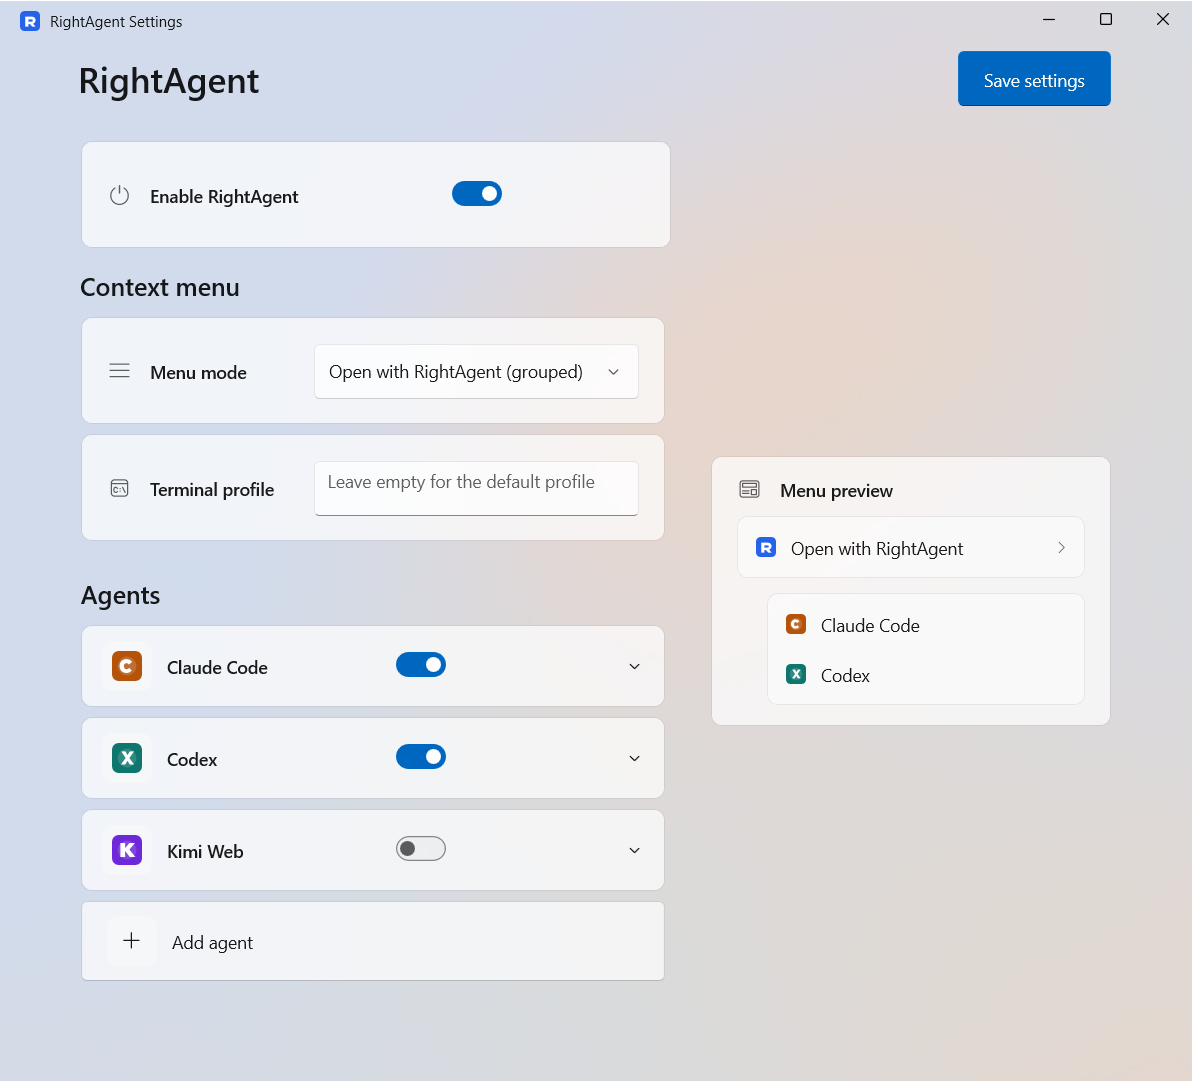
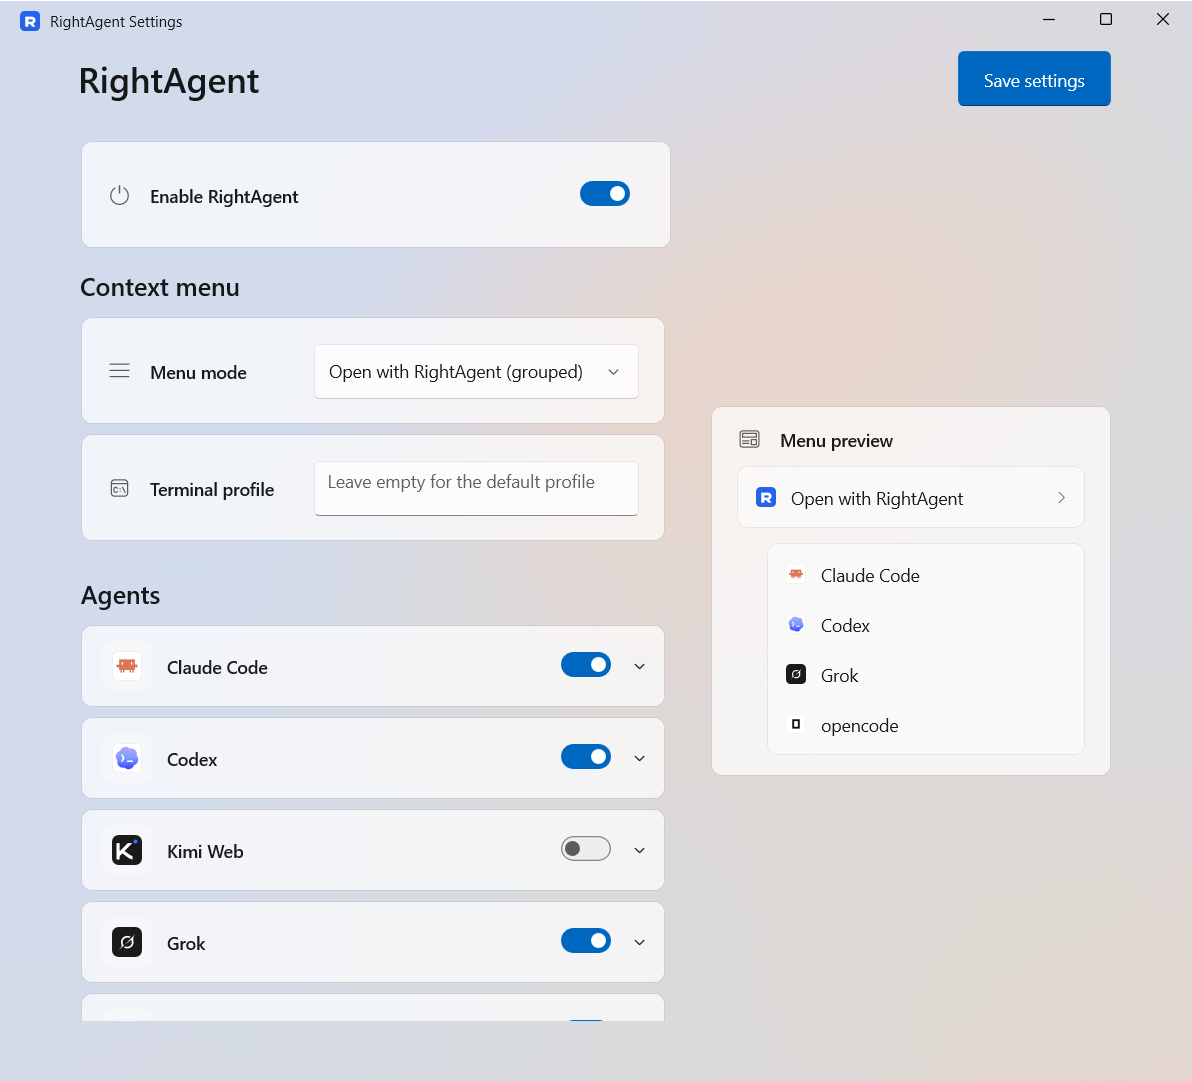
Pin agent toggles next to expander chevron, dark Kimi tile
- Stretch each agent header to the content column's exact right edge and
  tighten the template chevron margin (20,0,8,0 -> 2,0,4,0) so the toggle
  sits ~20epx from the arrow like Windows 11 Settings rows, without the
  layout clipping that cut the toggle's right edge.
- Absorb the ToggleSwitch template's trailing padding with a negative
  right margin.
- Kimi icon: white K + brand blue dot on a near-black tile (SVG + ICO).
- Refresh after-* screenshots, sync BRAND_ASSETS.md descriptions.

diff --git a/RightAgent.App/MainWindow.xaml b/RightAgent.App/MainWindow.xaml
@@ -272,10 +272,12 @@
                                             BorderBrush="{ThemeResource CardStrokeColorDefaultBrush}"
                                             BorderThickness="1"
                                             CornerRadius="8"
-                                            IsExpanded="{x:Bind IsExpanded, Mode=TwoWay}">
+                                            IsExpanded="{x:Bind IsExpanded, Mode=TwoWay}"
+                                            SizeChanged="AgentExpander_SizeChanged">
                                             <Expander.Header>
                                                 <Grid
                                                     MinHeight="64"
+                                                    HorizontalAlignment="Stretch"
                                                     ColumnSpacing="12"
                                                     VerticalAlignment="Center">
                                                     <Grid.ColumnDefinitions>
@@ -302,10 +304,14 @@
                                                         Text="{x:Bind Name, Mode=OneWay}"
                                                         TextTrimming="CharacterEllipsis"
                                                         ToolTipService.ToolTip="{x:Bind Name, Mode=OneWay}" />
+                                                    <!-- Negative right margin absorbs the ToggleSwitch template's
+                                                         built-in trailing padding, so the pill ends flush with the
+                                                         content column edge measured in AgentExpander_SizeChanged. -->
                                                     <ToggleSwitch
                                                         Grid.Column="2"
                                                         MinWidth="0"
                                                         MinHeight="44"
+                                                        Margin="0,0,-8,0"
                                                         AutomationProperties.Name="{x:Bind EnabledAutomationName, Mode=OneWay}"
                                                         IsOn="{x:Bind Enabled, Mode=TwoWay}"
                                                         OffContent=""

diff --git a/RightAgent.App/MainWindow.xaml.cs b/RightAgent.App/MainWindow.xaml.cs
@@ -79,6 +79,57 @@ public sealed partial class MainWindow : Window
         ViewModel.AddAgent();
     }
 
+    private void AgentExpander_SizeChanged(object sender, SizeChangedEventArgs e)
+    {
+        // The Expander template reserves a 20px margin before its chevron border
+        // ("ExpandCollapseChevronBorder", Margin 20,0,8,0), which leaves the toggle
+        // looking stranded. Tighten that margin directly on the template part, then
+        // stretch the header grid to the exact right edge of the content column —
+        // anything wider gets layout-clipped by the chevron slot.
+        if (sender is not Expander { Header: FrameworkElement header } expander)
+        {
+            return;
+        }
+        var border = FindDescendantByName(expander, "ExpandCollapseChevronBorder");
+        if (border is null)
+        {
+            return;
+        }
+        if (border.Margin.Left != 2 || border.Margin.Right != 4)
+        {
+            border.Margin = new Thickness(2, 0, 4, 0);
+        }
+        // The margin change does not alter the Expander's own size, so SizeChanged will
+        // not fire again — force a synchronous layout pass and measure the new geometry.
+        expander.UpdateLayout();
+        var headerLeft = header.TransformToVisual(expander).TransformPoint(new Windows.Foundation.Point(0, 0)).X;
+        var columnRight = border.TransformToVisual(expander).TransformPoint(new Windows.Foundation.Point(0, 0)).X - border.Margin.Left;
+        var width = columnRight - headerLeft;
+        if (width > 0 && System.Math.Abs(header.Width - width) > 0.5)
+        {
+            header.Width = width;
+        }
+    }
+
+    private static FrameworkElement? FindDescendantByName(Microsoft.UI.Xaml.DependencyObject root, string name)
+    {
+        var count = Microsoft.UI.Xaml.Media.VisualTreeHelper.GetChildrenCount(root);
+        for (var index = 0; index < count; ++index)
+        {
+            var child = Microsoft.UI.Xaml.Media.VisualTreeHelper.GetChild(root, index);
+            if (child is FrameworkElement element && element.Name == name)
+            {
+                return element;
+            }
+            var found = FindDescendantByName(child, name);
+            if (found is not null)
+            {
+                return found;
+            }
+        }
+        return null;
+    }
+
     private void MoveUp_Click(object sender, RoutedEventArgs e)
     {
         if (sender is Button { Tag: string id } && ViewModel.FindAgent(id) is { } agent)

diff --git a/docs/BRAND_ASSETS.md b/docs/BRAND_ASSETS.md
@@ -1,12 +1,12 @@
 # Brand asset policy
 
-The five built-in agent icons (Claude, Codex, Kimi, Grok, OpenCode) use the official brand glyphs from [@lobehub/icons](https://github.com/lobehub/lobe-icons) (MIT license; source package `@lobehub/icons-static-svg`, monochrome `currentColor` glyphs), retrieved 2026-08-12. Each glyph is presented unmodified on RightAgent's rounded tile background so both light and dark themes stay legible:
+The five built-in agent icons (Claude, Codex, Kimi, Grok, OpenCode) use the official brand glyphs from [@lobehub/icons](https://github.com/lobehub/lobe-icons) (MIT license; source package `@lobehub/icons-static-svg`), retrieved 2026-08-12. Glyphs are presented unmodified on a rounded tile so both light and dark themes stay legible:
 
-- Claude: white glyph on the brand clay `#D97757`.
-- Codex: white glyph on near-black `#1A1A1A` (brand mark is monochrome).
-- Kimi: black glyph on white with a hairline border (brand color `#000`).
-- Grok: white glyph on near-black `#1A1A1A` (brand color `#000`).
-- OpenCode: black glyph on white with a hairline border (brand color `#000`).
+- Claude: Claude Code glyph in brand clay `#D97757` on a white tile with a hairline border.
+- Codex: official color gradient mark (blue-violet `#B1A7FF` → `#3941FF`) on its own white tile.
+- Kimi: white `K` with the brand blue dot `#1783FF` (color variant) on a near-black `#1A1A1A` tile.
+- Grok: white swirl glyph on a black tile (brand color `#000`).
+- OpenCode: black frame glyph on a white tile with a hairline border (brand color `#000`).
 
 Before a public build, verify usage against each vendor's brand terms (Anthropic/Claude, OpenAI/Codex, Moonshot/Kimi, xAI/Grok, OpenCode) as required below.
 
